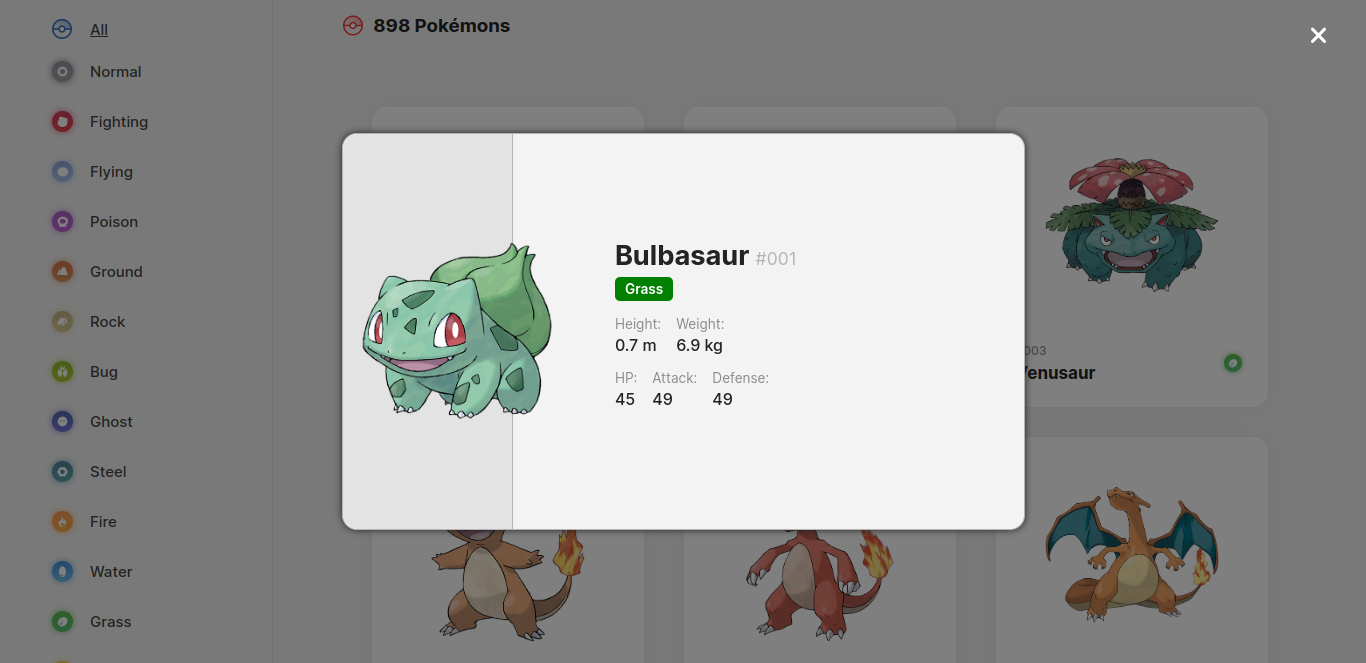
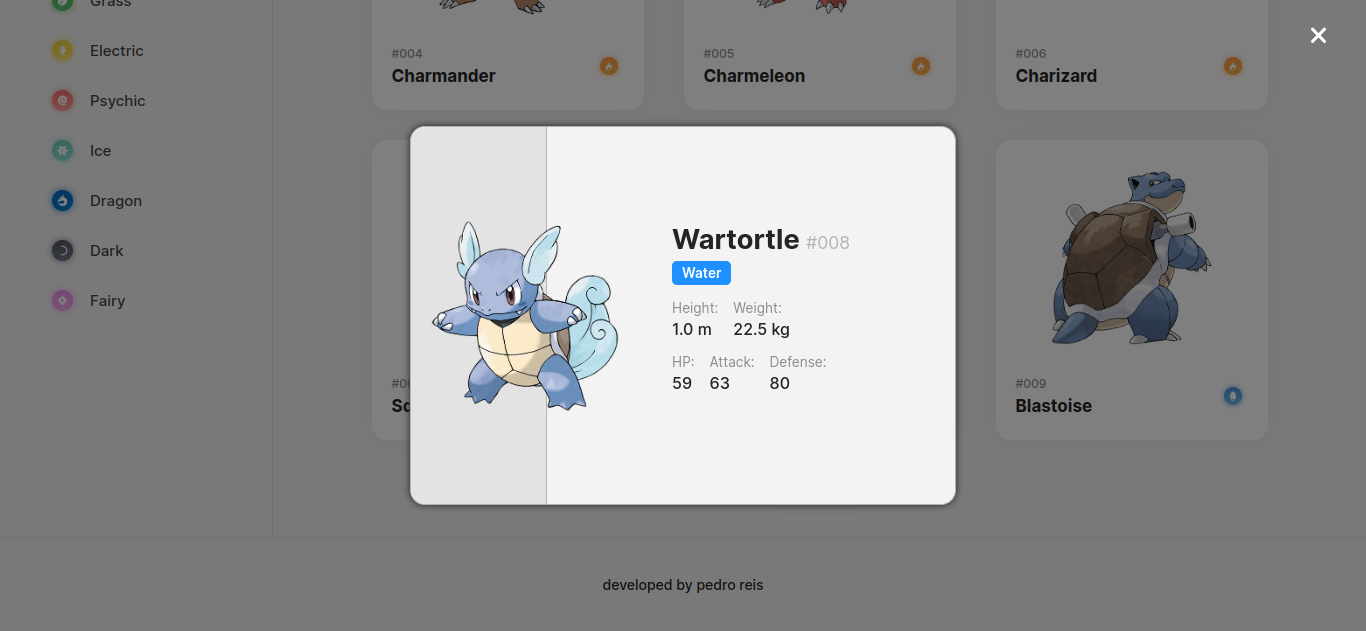
some-fixes

diff --git a/src/components/Main/Main.module.css b/src/components/Main/Main.module.css
@@ -227,7 +227,7 @@
 
 .Details > div {
   background-color: var(--light-grey);
-  width: 50vw;
+  width: 40vw;
   height: 60vh;
   border-radius: 15px;
   border: 1px solid var(--heavy-grey);
@@ -254,7 +254,7 @@
 }
 
 .pokemonInfoContainer {
-  width: 60%;
+  width: 52%;
   border-radius: 0 15px 15px 0;
   color: var(--black);
 }
